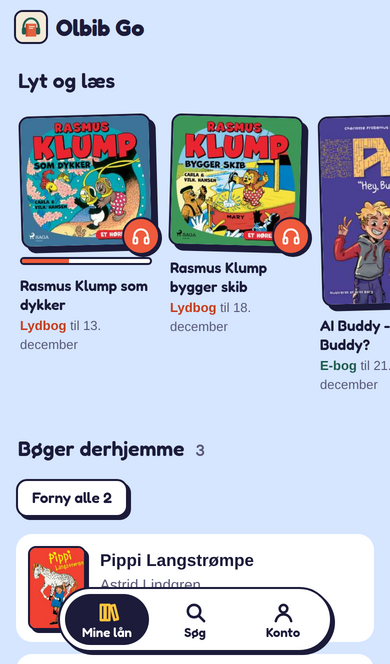
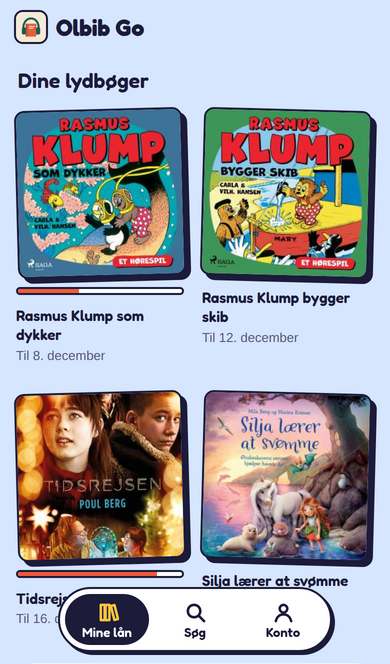
Fokus på lydbøger: lydbøger i to kolonner, andre lån foldet sammen, ingen e-bogslån eller reservering
- Mine lån viser lydbøgerne i et gitter; e-bøger, hjemlån og reserveringer
  i en sammenfoldet liste (fornyelse og sletning af reserveringer virker stadig)
- søgning starter på Lydbøger
- titelsiden kan kun låne lydbogen og nævner andre formater med link til GO
- serveren afviser lån af andet end lydbøger; reserverings-ruten er fjernet
- login, titel og manifest siger, at appen er til lydbøger

diff --git a/public/app.js b/public/app.js
@@ -128,7 +128,7 @@ async function viewLogin(alive) {
   chrome({});
   const saved = localStorage.getItem('site') || '';
   view.innerHTML = `
-    <div class="hello"><img src="/icon-180.png" alt=""><h2>Hej!</h2><p>Log ind med dit lånerkort fra dit bibliotek.</p></div>
+    <div class="hello"><img src="/icon-180.png" alt=""><h2>Lydbøger fra biblioteket</h2><p>Lån og lyt til lydbøger fra Biblo GO! på en ældre telefon. Log ind med lånerkortet fra dit bibliotek.</p></div>
     <form class="card" autocomplete="on">
       <label for="site">Kommune</label>
       <div class="select-wrap"><select id="site" required disabled><option value="">Henter kommuner…</option></select><span class="spin" id="site-spin"></span></div>
@@ -169,21 +169,29 @@ async function viewLogin(alive) {
 
 async function viewLoans(alive) {
   chrome({ tab: 'loans' });
-  view.innerHTML = spinner('Henter dine lån');
+  view.innerHTML = spinner('Henter dine lydbøger');
   const d = await api('GET', '/loans');
   if (!alive()) return;
 
-  const shelf = d.digital.map((l) => {
-    const href = l.kind === 'audiobook' ? `#/listen/${l.id}` : `#/read/${l.id}`;
+  // Audiobooks are the point of the app: a two-column grid up top.
+  const audio = d.digital.filter((l) => l.kind === 'audiobook');
+  const grid = audio.map((l) => {
     const pos = Number(localStorage.getItem('pos:' + l.id) || 0);
-    const pct = l.kind === 'audiobook' && pos && l.duration ? Math.min(100, Math.round((pos / l.duration) * 100)) : null;
-    return `<a class="book" href="${href}">
-      <div class="cv">${coverImg(l.cover, 'cover', l.kind === 'audiobook')}${kindBadge(l.kind)}</div>
+    const pct = pos && l.duration ? Math.min(100, Math.round((pos / l.duration) * 100)) : null;
+    return `<a class="book" href="#/listen/${l.id}">
+      ${coverImg(l.cover, 'cover', true)}
       ${pct !== null ? `<div class="bar" aria-label="${pct} procent hørt"><i style="width:${pct}%"></i></div>` : ''}
       <div class="t">${esc(l.title)}</div>
-      <div class="s"><b class="k ${kindOf(l.kind) ?? ''}">${KIND[l.kind] ?? esc(l.kind)}</b> til ${fmtDate(l.end)}</div>
+      <div class="s">Til ${fmtDate(l.end)}</div>
     </a>`;
   }).join('');
+
+  // Everything else lives in a collapsed list underneath: shown, but not the focus.
+  const ebooks = d.digital.filter((l) => l.kind !== 'audiobook').map((l) => `<a class="row" href="#/read/${l.id}">
+      ${coverImg(l.cover)}
+      <div class="meta"><div class="t">${esc(l.title)}</div><div class="s">${esc(l.author || '')}</div>
+      <div class="chips">${kindChip('e-bog')}<span class="chip">Til ${fmtDate(l.end)}</span></div></div>
+    </a>`).join('');
 
   const physical = d.physical.map((l) => {
     const days = daysUntil(l.dueDate);
@@ -191,7 +199,7 @@ async function viewLoans(alive) {
       : days <= 3 ? `<span class="chip sun">Afleveres ${days === 0 ? 'i dag' : fmtDate(l.dueDate)}</span>`
       : `<span class="chip">Afleveres ${fmtDate(l.dueDate)}</span>`;
     return `<div class="row">
-      ${l.work.id ? `<a href="#/work/${encodeURIComponent(l.work.id)}">${coverImg(l.work.cover)}</a>` : coverImg(l.work.cover)}
+      ${coverImg(l.work.cover)}
       <div class="meta"><div class="t">${esc(l.work.title)}</div><div class="s">${esc((l.work.creators || []).join(', '))}</div>
       <div class="chips">${chip}</div></div>
       ${l.isRenewable ? `<button class="btn small" data-renew="${l.loanId}">Forny</button>` : ''}
@@ -210,15 +218,22 @@ async function viewLoans(alive) {
     </div>`).join('');
 
   const renewable = d.physical.filter((l) => l.isRenewable).map((l) => l.loanId);
+  const otherCount = d.digital.length - audio.length + d.physical.length + d.reservations.length;
+  const anyLate = d.physical.some((l) => daysUntil(l.dueDate) <= 3) || d.reservations.some((r) => r.state === 'readyForPickup');
   view.innerHTML = `
-    <h2>Lyt og læs</h2>
-    ${shelf ? `<div class="shelf">${shelf}</div>` : '<p class="empty">Ingen lydbøger eller e-bøger lige nu.</p><p><a class="btn go" href="#/search">Find en bog</a></p>'}
-    <h2>Bøger derhjemme <small>${d.physical.length}</small></h2>
-    ${renewable.length > 1 ? `<p><button class="btn small" data-renew="${renewable.join(',')}">Forny alle ${renewable.length}</button></p>` : ''}
-    <div class="rows">${physical || '<p class="empty">Ingen bøger lånt med hjem.</p>'}</div>
-    ${d.reservations.length ? `<h2>Reserveret</h2><div class="rows">${resv}</div>` : ''}
+    <h2>Dine lydbøger</h2>
+    ${grid ? `<div class="grid">${grid}</div>`
+      : '<div class="empty-box"><p>Du har ingen lydbøger lånt lige nu.</p><a class="btn audio" href="#/search">' + ICON.ears + 'Find en lydbog</a></div>'}
+    ${otherCount ? `<details class="more" id="more"${localStorage.getItem('moreOpen') === '1' ? ' open' : ''}>
+      <summary><span>Andre lån</span><span class="chip${anyLate ? ' sun' : ''}">${otherCount}</span><svg class="chev" viewBox="0 0 24 24" aria-hidden="true"><path d="M6 9l6 6 6-6"/></svg></summary>
+      <p class="more-note">E-bøger og bøger kan ikke lånes her, men du kan se dine lån og forny bøger.</p>
+      ${ebooks ? `<h3>E-bøger</h3><div class="rows">${ebooks}</div>` : ''}
+      ${physical ? `<h3>Bøger derhjemme</h3>${renewable.length > 1 ? `<p><button class="btn small" data-renew="${renewable.join(',')}">Forny alle ${renewable.length}</button></p>` : ''}<div class="rows">${physical}</div>` : ''}
+      ${resv ? `<h3>Reserveret</h3><div class="rows">${resv}</div>` : ''}
+    </details>` : ''}
     ${d.fees ? `<h2>Gebyrer</h2><p class="err">Du skylder ${d.fees} kr.</p>` : ''}
 `;
+  $('#more')?.addEventListener('toggle', (e) => localStorage.setItem('moreOpen', e.target.open ? '1' : '0'));
 
   view.querySelectorAll('[data-renew]').forEach((b) => (b.onclick = async () => {
     const done = busy(b);
@@ -242,23 +257,23 @@ const sortTypes = (types) => {
   const seen = new Set();
   return [...types].sort((a, b) => rank(a) - rank(b)).filter((t) => { const k = kindOf(t) ?? t; if (seen.has(k)) return false; seen.add(k); return true; });
 };
-const FILTERS = [['', 'Alt'], ['audiobook', 'Lydbøger'], ['ebook', 'E-bøger'], ['book', 'Bøger']];
+const FILTERS = [['audiobook', 'Lydbøger'], ['', 'Alt']];
 // Search as you type: debounced, and only the newest query may paint results.
 async function viewSearch(q, alive) {
   chrome({ tab: 'search' });
   view.innerHTML = `
-    <form class="searchbar"><input type="search" id="q" placeholder="Titel, forfatter, emne" value="${esc(q)}" enterkeyhint="search" autocomplete="off" autocorrect="off" spellcheck="false"><span class="spin" id="qspin" hidden></span></form>
+    <form class="searchbar"><input type="search" id="q" placeholder="Søg efter en lydbog" value="${esc(q)}" enterkeyhint="search" autocomplete="off" autocorrect="off" spellcheck="false"><span class="spin" id="qspin" hidden></span></form>
     <div class="filters" role="radiogroup" aria-label="Vis kun">${FILTERS.map(([k, label]) =>
       `<button type="button" role="radio" class="filter" data-type="${k}">${label}</button>`).join('')}</div>
     <div id="results"></div>`;
   const input = $('#q'); const results = $('#results'); const qspin = $('#qspin');
-  let type = localStorage.getItem('searchType') || '';
+  let type = localStorage.getItem('searchFilter') ?? 'audiobook';
   const markFilters = () => view.querySelectorAll('.filter').forEach((b) => {
     b.classList.toggle('on', b.dataset.type === type); b.setAttribute('aria-checked', String(b.dataset.type === type));
   });
   markFilters();
   view.querySelectorAll('.filter').forEach((b) => (b.onclick = () => {
-    type = b.dataset.type; localStorage.setItem('searchType', type); markFilters();
+    type = b.dataset.type; localStorage.setItem('searchFilter', type); markFilters();
     const text = current; current = null; run(text ?? input.value);
   }));
   let seq = 0; let timer = null; let offset = 0; let current = '';
@@ -316,48 +331,38 @@ async function viewWork(id, alive) {
   const w = await api('GET', '/work/' + encodeURIComponent(id));
   if (!alive()) return;
   $('#title').textContent = w.title;
-  const digital = w.digital.map((d) => {
-    const route = d.kind === 'audiobook' ? 'listen' : 'read';
-    const audio = d.kind === 'audiobook';
-    const cls = `btn block ${audio ? 'audio' : 'ebook'}`; const icon = ICON[audio ? 'ears' : 'open'];
-    if (d.loan) return `<a class="${cls}" href="#/${route}/${d.loan}">${icon}${audio ? 'Lyt til lydbogen' : 'Læs e-bogen'}</a>`;
-    return `<button class="${cls}" data-borrow="${esc(d.isbn)}" data-route="${route}">${icon}${audio ? 'Lån lydbogen' : 'Lån e-bogen'}</button>`;
-  }).join('');
-  let physical = '';
-  if (w.physical.length) {
-    const status = w.physicalAvailable ? 'Bogen står på hylden på et af bibliotekerne.' : `Alle bøgerne er lånt ud${w.reservationsInQueue ? `, ${w.reservationsInQueue} venter` : ''}.`;
-    physical = w.reserveFaust
-      ? `<button class="btn block" id="reserve">Reservér bogen</button><p class="status">${status}</p>`
-      : `<p class="status">${status} Den kan ikke reserveres.</p>`;
-  }
+  const audio = w.digital.find((d) => d.kind === 'audiobook');
+  const action = audio
+    ? (audio.loan
+      ? `<a class="btn block audio" href="#/listen/${audio.loan}">${ICON.ears}Lyt til lydbogen</a>`
+      : `<button class="btn block audio" data-borrow="${esc(audio.isbn)}">${ICON.ears}Lån lydbogen</button>`)
+    : `<p class="status">Den findes ikke som lydbog${meInfo.digital === false ? ' hos dit bibliotek' : ''}.</p>`;
+  const also = [w.digital.some((d) => d.kind === 'ebook') && 'e-bog', w.physical.length && 'bog'].filter(Boolean);
+  const alsoNote = also.length
+    ? `<p class="status">Findes også som ${also.join(' og ')}. ${meInfo.goUrl ? `Den kan du låne i <a href="${esc(meInfo.goUrl)}/work/${encodeURIComponent(w.id)}" target="_blank" rel="noopener">GO</a>.` : 'Den kan du låne i GO.'}</p>`
+    : '';
   view.innerHTML = `
     <div class="work-head">${coverImg(w.cover, 'cover big', w.digital.length === 1 && w.digital[0].kind === 'audiobook' && !w.physical.length)}
       <h2>${esc(w.title)}</h2>
       <div class="by">${esc(w.creators.join(', '))}${w.year ? ', ' + esc(w.year) : ''}</div>
       <div class="chips">${sortTypes(w.types).map(kindChip).join('')}${w.series ? `<span class="chip">${esc(w.series.title)} ${esc(w.series.numberInSeries || '')}</span>` : ''}${w.ages ? `<span class="chip sun">${esc(w.ages)} år</span>` : ''}</div>
     </div>
-    <div class="actions">${digital}${physical}</div>
+    <div class="actions">${action}${alsoNote}</div>
     ${w.abstract ? `<div class="abstract">${esc(w.abstract)}</div>` : ''}`;
   view.querySelectorAll('[data-borrow]').forEach((b) => (b.onclick = async () => {
     const done = busy(b, 'Låner');
     try {
       const r = await api('POST', '/borrow', { isbn: b.dataset.borrow });
-      if (r.id) { toast('Lånt!'); go(`#/${b.dataset.route}/${r.id}`); }
+      if (r.id) { toast('Lånt!'); go(`#/listen/${r.id}`); }
       else { toast(`Kunne ikke låne (${r.status})`); done(); }
     } catch (e) { toast(e.message); done(); }
   }));
-  const res = $('#reserve');
-  if (res) res.onclick = async () => {
-    const done = busy(res, 'Reserverer');
-    try { await api('POST', '/reserve', { faust: [w.reserveFaust] }); done('Reserveret'); res.disabled = true; toast('Bogen er reserveret'); }
-    catch (e) { toast(e.status === 409 ? 'Kunne ikke reservere. Måske har du den allerede.' : e.message); done(); }
-  };
 }
 
 function viewRead() {
   chrome({ back: true, title: 'E-bog' });
-  view.innerHTML = `<div class="hello"><h2>E-bøger kommer ikke her</h2>
-    <p>E-bøger er kopibeskyttede og kan kun læses i bibliotekets egen læser.</p></div>
+  view.innerHTML = `<div class="hello"><h2>Læs e-bogen i GO</h2>
+    <p>Olbib Go er til lydbøger. E-bøger er kopibeskyttede og kan kun læses i bibliotekets egen læser.</p></div>
     ${meInfo.goUrl ? `<p style="margin-top:22px"><a class="btn go block" href="${esc(meInfo.goUrl)}/user/profile" target="_blank" rel="noopener">Åbn i GO</a></p>` : ''}`;
 }
 

diff --git a/public/style.css b/public/style.css
@@ -99,6 +99,28 @@ h2 small { font: 500 16px var(--round); color: var(--ink-soft); margin-left: 6px
 .k { font-weight: 700; }
 .k.audio { color: #c63d20; }
 .k.ebook { color: var(--pine); }
+/* two-column grid of the user's audiobooks */
+.grid { display: grid; grid-template-columns: 1fr 1fr; gap: 26px 18px; padding: 4px 4px 0 0; }
+.grid .book { width: auto; }
+.grid .book .cover, .grid .book .cover.sq { width: 100%; height: auto; aspect-ratio: 1 / 1; }
+.empty-box { background: var(--paper); border-radius: 18px; padding: 22px 18px; text-align: center; }
+.empty-box p { margin: 0 0 16px; color: var(--ink-soft); }
+
+/* collapsed "Andre lån" */
+details.more { margin-top: 34px; background: rgba(255, 255, 255, 0.55); border-radius: 18px; padding: 4px 12px; }
+details.more summary {
+  list-style: none; display: flex; align-items: center; gap: 10px; cursor: pointer;
+  min-height: 52px; font: 600 19px var(--round);
+}
+details.more summary::-webkit-details-marker { display: none; }
+details.more summary span:first-child { flex: 1; }
+details.more .chev { width: 22px; height: 22px; transition: transform 0.15s; }
+details.more[open] .chev { transform: rotate(180deg); }
+details.more h3 { font: 600 17px var(--round); margin: 18px 2px 10px; }
+details.more .rows { margin-bottom: 8px; }
+.more-note { color: var(--ink-soft); font-size: 15px; margin: 0 2px 4px; }
+@media (prefers-reduced-motion: reduce) { details.more .chev { transition: none; } }
+
 .bar { height: 8px; margin-top: 10px; border: 2px solid var(--ink); border-radius: 99px; background: var(--paper); overflow: hidden; }
 .bar i { display: block; height: 100%; background: var(--tomato); }
 

diff --git a/public/sw.js b/public/sw.js
@@ -1,5 +1,5 @@
 // Network-first app shell so updates arrive immediately; cached copy when offline.
-const CACHE = 'olbib-go-v8';
+const CACHE = 'olbib-go-v9';
 const SHELL = ['/', '/app.js', '/style.css', '/manifest.webmanifest', '/icon-180.png', '/icon-32.png', '/fonts/fredoka-latin.woff2'];
 self.addEventListener('install', (e) => { e.waitUntil(caches.open(CACHE).then((c) => c.addAll(SHELL))); self.skipWaiting(); });
 self.addEventListener('activate', (e) => {

diff --git a/public/index.html b/public/index.html
@@ -3,7 +3,7 @@
 <head>
   <meta charset="utf-8">
   <meta name="viewport" content="width=device-width, initial-scale=1, viewport-fit=cover">
-  <title>Olbib Go</title>
+  <title>Olbib Go: lydbøger fra biblioteket</title>
   <meta name="apple-mobile-web-app-capable" content="yes">
   <meta name="apple-mobile-web-app-status-bar-style" content="default">
   <meta name="apple-mobile-web-app-title" content="Olbib Go">

diff --git a/README.md b/README.md
@@ -1,13 +1,14 @@
 # Olbib Go
 
-En lille, uofficiel webapp til folkebibliotekernes børneunivers [Biblo GO!](https://biblogo.dk) (tidligere eReolen GO), lavet til ældre telefoner. Man vælger sin kommune ved login, og appen taler så med den kommunes GO-side.
+En lille, uofficiel webapp til at låne og lytte til **lydbøger** fra folkebibliotekernes børneunivers [Biblo GO!](https://biblogo.dk) (tidligere eReolen GO), lavet til ældre telefoner. Man vælger sin kommune ved login, og appen taler så med den kommunes GO-side.
 
 > Olbib Go er et privat hobbyprojekt. Det er ikke lavet af, godkendt af eller tilknyttet Biblo GO!, Det Digitale Folkebibliotek, Københavns Biblioteker eller andre biblioteker, DBC eller WeDoBooks.
 
 <p>
-  <img src="docs/screenshots/2-mine-laan.png" width="190" alt="Mine lån med lydbøger, e-bøger og hjemlånte bøger">
+  <img src="docs/screenshots/2-mine-laan.png" width="190" alt="Mine lån med lydbøgerne i to kolonner">
+  <img src="docs/screenshots/2b-andre-laan.png" width="190" alt="Andre lån foldet ud: e-bøger, hjemlånte bøger og reserveringer">
   <img src="docs/screenshots/3-soeg.png" width="190" alt="Søgning med filter for lydbøger">
-  <img src="docs/screenshots/4-titel.png" width="190" alt="En titel med knapper til at låne lydbogen og reservere bogen">
+  <img src="docs/screenshots/4-titel.png" width="190" alt="En titel med knap til at låne lydbogen">
   <img src="docs/screenshots/5-afspiller.png" width="190" alt="Lydbogsafspilleren med søvntimer">
 </p>
 
@@ -17,17 +18,18 @@ En lille, uofficiel webapp til folkebibliotekernes børneunivers [Biblo GO!](htt
 
 Biblo GO! er en del af Det Digitale Folkebibliotek, og omkring 100 biblioteker i Danmark, på Færøerne, i Grønland og i Sydslesvig har hver deres GO-side. GO virker ikke på vores gamle iPhone, som kører iOS 16 og ikke kan opdateres. Telefonen er ellers fin til at lytte til lydbøger, og et barn kan sagtens bruge den. Det eneste, der mangler, er en vej ind til bibliotekets bøger.
 
-Olbib Go er den vej ind. Det er en simpel webapp, der kan lægges på hjemmeskærmen i Safari (en såkaldt PWA). Den taler med de samme tjenester som GO, med ens eget lånerkort og pinkode, og viser det hele i en brugerflade, der virker i en gammel Safari.
+Olbib Go er den vej ind, og den handler om lydbøger. Det er en simpel webapp, der kan lægges på hjemmeskærmen i Safari (en såkaldt PWA). Den taler med de samme tjenester som GO, med ens eget lånerkort og pinkode, og viser det hele i en brugerflade, der virker i en gammel Safari.
 
 ## Hvad kan den
 
 - **Logge ind** i sin egen kommune med lånernummer eller CPR og pinkode. Man forbliver logget ind på telefonen.
-- **Mine lån:** lydbøger og e-bøger, hjemlånte bøger med afleveringsdato, fornyelse (en ad gangen eller alle) og reserveringer med kønummer og afhentning.
-- **Søg** mens man skriver, med filtre for lydbøger, e-bøger og fysiske bøger.
-- **Låne** lydbøger og e-bøger og **reservere** fysiske bøger.
-- **Lytte** til lydbøger: ±30 sekunder, afspilningshastighed, husker hvor man kom til, styring fra låseskærmen og en søvntimer.
+- **Dine lydbøger** står øverst i to kolonner, med hvor langt man er nået.
+- **Søge** efter lydbøger mens man skriver. Filteret "Alt" viser også andre formater.
+- **Låne** lydbøger.
+- **Lytte:** ±30 sekunder, afspilningshastighed, husker hvor man kom til, styring fra låseskærmen og en søvntimer.
+- **Andre lån** (e-bøger, hjemlånte bøger og reserveringer) står i en sammenfoldet liste nedenunder. Man kan se dem, forny hjemlånte bøger og slette reserveringer.
 
-E-bøger kan lånes, men ikke læses i appen. Se [E-bøger](#e-bøger) nedenfor.
+Appen kan **ikke** låne e-bøger eller reservere fysiske bøger. Det gør man i GO, og en titelside siger, hvis bogen også findes i andre formater. Serveren afviser også selv lån af andet end lydbøger. E-bøger kan heller ikke læses i appen, se [E-bøger](#e-bøger).
 
 Appen er brugt og testet med Københavns Biblioteker. De andre kommuners GO-sider er bygget på samme måde, og deres opsætning er testet, men ikke login med et rigtigt lånerkort.
 
@@ -44,7 +46,7 @@ Kort sagt: **serveren gemmer ingenting om brugerne.** Alt om et login ligger kry
 | Hvor | Hvad | Hvor længe |
 |---|---|---|
 | **Brugerens cookie** (`lyd`) | Ét krypteret felt med valgt kommune, GO's session-cookies, lånernummer og pinkode (så serveren kan logge ind igen, når GO's session udløber efter cirka et døgn), navnet fra GO og enheds-id'et til lydbøger. | Indtil man logger ud, højst 180 dage |
-| **Telefonens browser** (localStorage) | Hvor langt man er nået i hver lydbog, den seneste lydbog, afspilningshastighed, valgt søgefilter og senest valgte kommune. | Indtil browserdata slettes |
+| **Telefonens browser** (localStorage) | Hvor langt man er nået i hver lydbog, den seneste lydbog, afspilningshastighed, valgt søgefilter, senest valgte kommune og om "Andre lån" er foldet ud. | Indtil browserdata slettes |
 | **Serverens disk** | Kun en tilfældig hemmelighed (`secret`), som bruges til at kryptere cookies og beregne enheds-id'er. Ingen brugerliste, ingen sessioner. | Fast |
 | **Serverens hukommelse** | Kortlivede billetter til lydbogsafspilning (30 min), midlertidige Firebase-tokens (1 time), hvilke enheder der er registreret, tællere til hastighedsbegrænsning, tidspunkter for fejlede logins pr. IP, anonyme trafiktællere og kommunernes opsætning. | Forsvinder ved genstart |
 | **Serverens log** | Intet. Logning er slået fra som standard. | – |
@@ -122,10 +124,9 @@ Alt går gennem kommunens GO-side, fx `https://go.bibliotek.kk.dk/ap-service/…
 | Søgning og værker | `POST /fbi`: DBC's FBI GraphQL (`searchWithPagination`, `getMaterial`, `getManifestationsByFaust`). Forespørgslerne ligger i `server/queries/`. |
 | Filtrering på type | FBI-filteret `materialTypesSpecific`: `lydbog (online)`, `e-bog`, `bog` |
 | Hjemlån, fornyelse, gebyrer | `GET /fbs/external/agencyid/patrons/patronid/loans/v2`, `POST …/loans/renew/v2`, `GET …/patron/patronid/fees/v2` |
-| Reserveringer | `GET/POST /fbs/external/v1/agencyid/patrons/patronid/reservations/v2`, `DELETE …/reservations?reservationid=` |
-| Tilgængelighed | `GET /fbs/external/agencyid/catalog/availability/v3?recordid=…` |
-| Digitale lån | `GET/POST /biblio/v1/loans` (lån med `{ "material_id": "<ISBN>" }`), `GET /biblio/v1/users/get_loan_quotas` |
-| Metadata og forsider for digitale titler | `GET /pubhub-adapter/v1/products/<ISBN>` |
+| Reserveringer | `GET /fbs/external/v1/agencyid/patrons/patronid/reservations/v2`, `DELETE …/reservations?reservationid=` |
+| Digitale lån | `GET/POST /biblio/v1/loans` (lån med `{ "material_id": "<ISBN>" }`, kun lydbøger) |
+| Metadata og forsider for digitale titler | `GET /pubhub-adapter/v1/products/<ISBN>` (`productType` 2 er lydbog) |
 
 FBS-endpointsene er dokumenteret i den åbne OpenAPI-beskrivelse i [dpl-react](https://github.com/danskernesdigitalebibliotek/dpl-react) (`src/core/fbs/fbs-adapter.yaml`). Resten er fundet ved at se på den trafik, GO selv sender, når man bruger GO med sin egen konto.
 
